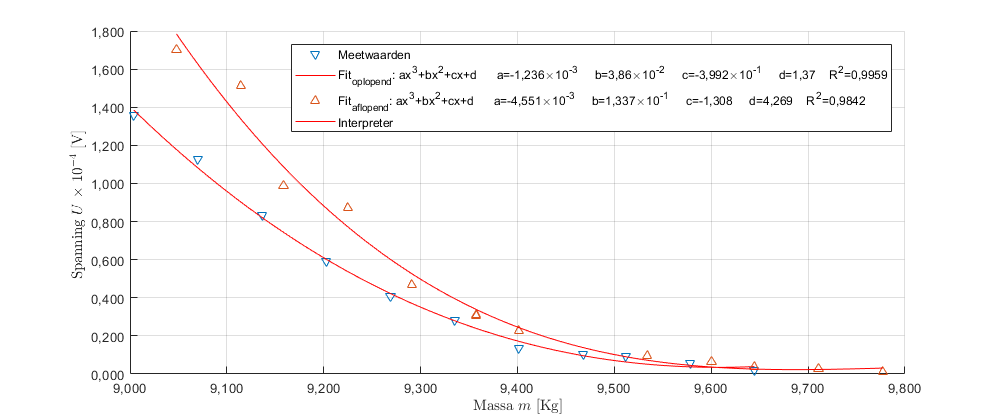
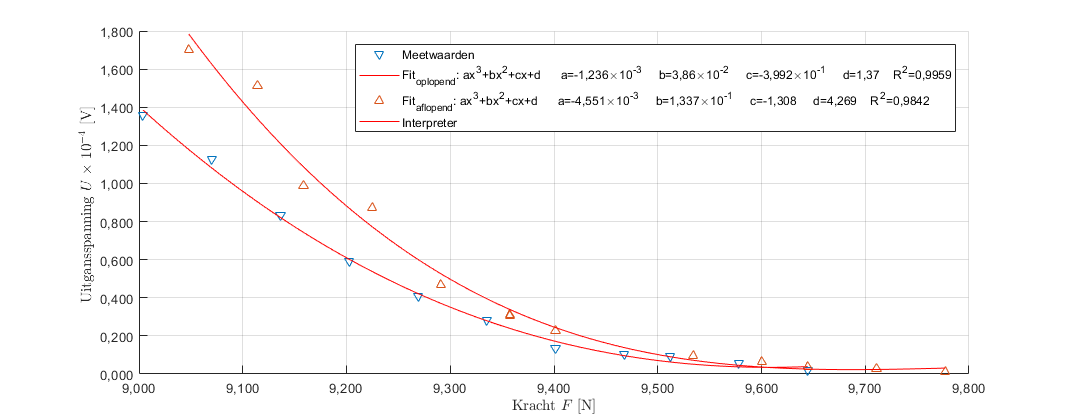
piezo
plot assen verbeterd

diff --git a/Data/VO/frequentie metingen/resultaat.m b/Data/VO/frequentie metingen/resultaat.m
@@ -63,8 +63,8 @@ hold on
 % labels & legend zelf aanpassen in createFit
 legend_fit_laaghoog = 'Fit_{oplopend}: ax^3+bx^2+cx+d      a=-1,236\times10^{-3}     b=3,86\times10^{-2}     c=-3,992\times10^{-1}     d=1,37    R^2=0,9959'
 legend_fit_hooglaag = 'Fit_{aflopend}: ax^3+bx^2+cx+d      a=-4,551\times10^{-3}     b=1,337\times10^{-1}     c=-1,308     d=4,269    R^2=0,9842'
-legend('Meetwaarden', legend_fit_laaghoog, legend_fit_hooglaag, 'Interpreter', 'latex', 'Location' ,'NorthEast')
-% legend('Meetwaarden oplopend','Fit oplopend','Meetwaarden aflopend', 'Fit aflopend', 'Interpreter', 'latex', 'Location' ,'NorthEast')
+% legend('Meetwaarden', legend_fit_laaghoog, legend_fit_hooglaag, 'Interpreter', 'latex', 'Location' ,'NorthEast')
+legend('Meetwaarden oplopend','Fit oplopend','Meetwaarden aflopend', 'Fit aflopend', 'Interpreter', 'latex', 'Location' ,'NorthEast')
 
 % Correcte significantie maken voor plot 1
 xtickformat('%.3f')
@@ -79,8 +79,8 @@ nieuw_y = strrep(y(:),'.',',');
 set(gca, 'YTickLabel', nieuw_y)
 
 % Label axes
-xlabel('Massa $m$ [Kg]', 'Interpreter', 'latex')
-ylabel('Spanning $U$ $\times$ 10$^{-4}$ [V] ', 'Interpreter', 'latex')
+xlabel('Kracht $F$ [N]', 'Interpreter', 'latex')
+ylabel('Uitgansspanning $U$ $\times$ 10$^{-4}$ [V] ', 'Interpreter', 'latex')
 grid on
 
 
